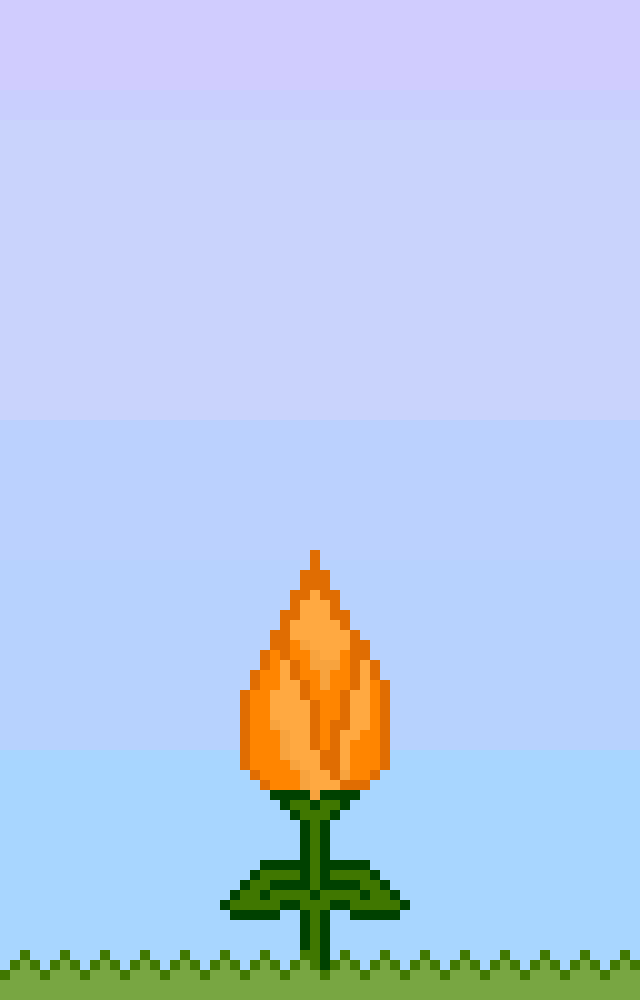
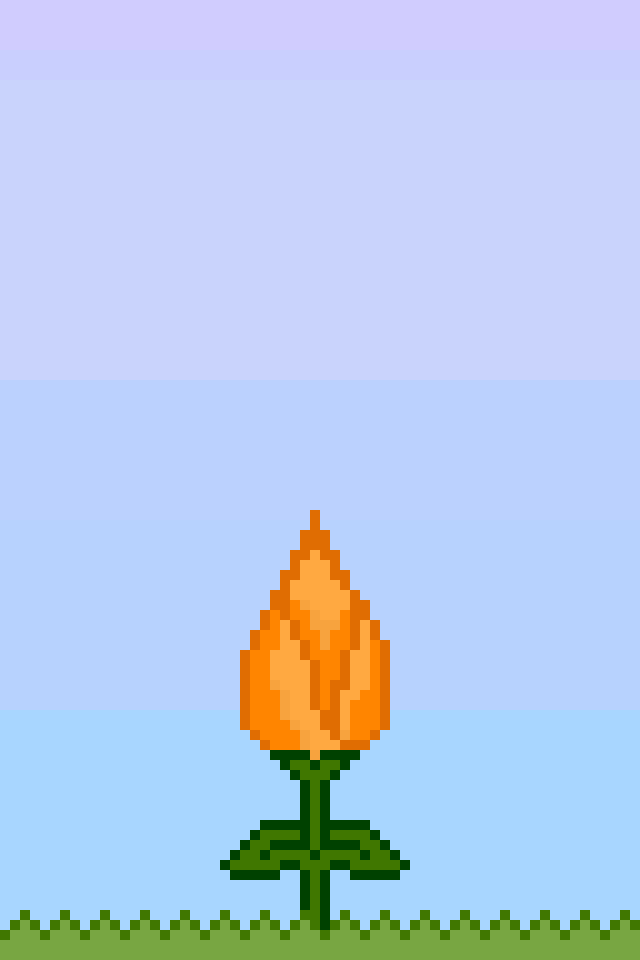
trying something

Changed region(s): [[0.3438, 0.5312, 0.625, 0.9375]]

diff --git a/index.html b/index.html
@@ -4,7 +4,7 @@
 		name='viewport' 
     	content='width=device-width, initial-scale=1.0, maximum-scale=1.0, user-scalable=0'
     />
-  	<titlle></title>
+  	<title>:-)</title>
   	<link rel="stylesheet" href="stylesheet.css">
   	<script src="jquery.js"></script>
   	<script src="gameplay.js"></script>
@@ -13,6 +13,6 @@
 	<div class="watering_can">
 		<img>
 	</div>
-  	<img class="flower" src="images/flower1.png">
+  <img class="flower" src="images/flower0.png">
 </body>
 </html>

diff --git a/gameplay.js b/gameplay.js
@@ -1,7 +1,8 @@
 
-var current_flower = 1;
+var current_flower = 0;
 
 $('body').click(function(){
+	alert("click");
 	switch_img();
 });
 
@@ -23,6 +24,7 @@ function switch_img()
 		current_flower = next_num;
 	}
 
+	alert(new_image);
 	$('.flower').attr('src', new_image);
 }
 
